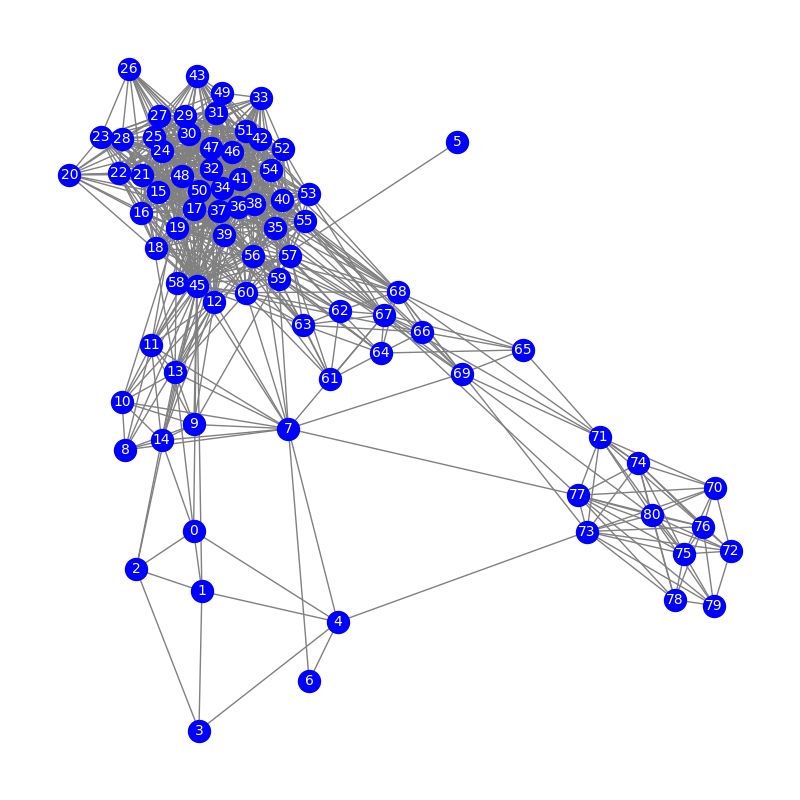
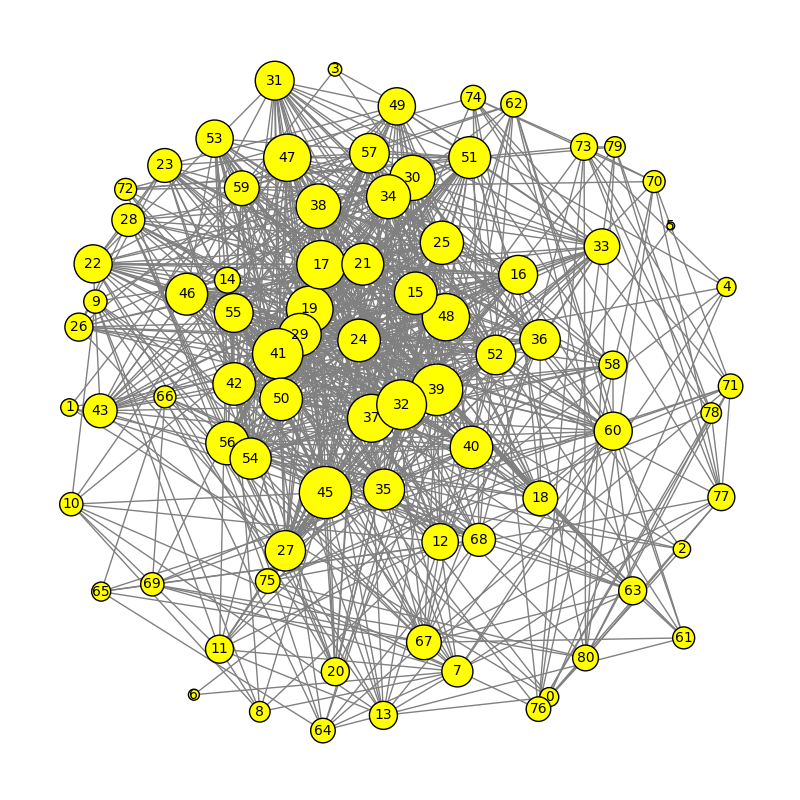
finalizing activity 12 by adding it so that the degree of centrality impacts the node size

diff --git a/Activity-12/main.py b/Activity-12/main.py
@@ -1,5 +1,7 @@
 import networkx as nx
 import matplotlib.pyplot as plt
+import math
+import numpy as np
 
 # filter out the rows of the full genome to only the HIST1 region
 with open("data.txt", "r", encoding="utf-8") as f:
@@ -21,14 +23,14 @@ with open("chr13.txt", "r", encoding="utf-8") as f:
 
     # get the headers and windows from the dataset
     extracted_headers = [row.split("\t")[0:3] for row in all_lines]
-    extracted_windows = [row.split("\t")[2:] for row in all_lines]
+    extracted_windows = [row.split("\t")[3:] for row in all_lines]
 
     # find the columns that need to be deleted (those without any 1's)
     cols_to_delete = []
     for col, _ in enumerate(extracted_windows[0]):
         all_zero = True
         for row, _ in enumerate(extracted_windows):
-            if int(extracted_windows[row][col]) == 1:
+            if int(extracted_windows[row][col].strip()) == 1:
                 all_zero = False
         if all_zero:
             cols_to_delete.append(col)
@@ -40,6 +42,7 @@ with open("chr13.txt", "r", encoding="utf-8") as f:
             if col_index not in cols_to_delete:
                 new_row.append(value)
         extracted_windows[row_index] = new_row
+
 
 num_windows = len(extracted_headers)
 
@@ -91,35 +94,37 @@ normalized_linkage_table = [
 # so that I can get the 75th percentile value
 oneD_Linkage = []
 
-# looping through the 2D array of normalized linkage values
+# another constant-ish value for the number of rows in the linkage table
+# for this data set it should be 81, but for my sake just call the len function this
+normalized_table_row_length = len(normalized_linkage_table)
+
+# looping through the upper triangle of the 2D array of normalized linkage values
 # and appending them to a 1D array for sorting
 # unique values only, and nothing where A = B
-for i in range(len(normalized_linkage_table)):
-    for j in range(i + 1, len(normalized_linkage_table)):
+for i in range(normalized_table_row_length):
+    for j in range(i + 1, normalized_table_row_length):
         oneD_Linkage.append(normalized_linkage_table[i][j])
 
 print("Number of Unique Combinations of Normalized Linkage Table: ", len(oneD_Linkage))
 
 # sort the array so that I can easily find the 75th percentile value
 oneD_Linkage.sort()
-percentile_75 = oneD_Linkage[int(0.75 * len(oneD_Linkage))]
+percentile_75 = oneD_Linkage[math.ceil(0.75 * len(oneD_Linkage))]
 print("75th Percentile Value: ", percentile_75)
 
-# create a graph object
-network_graph = nx.Graph()
 # list that will store tuples of edges
 edges = []
 
 # going and finding the edges in the normalized linkage matrix
 # an edge is defined as any value over the 75th percentile
-for i in range(len(normalized_linkage_table)):
-    for j in range(i + 1, len(normalized_linkage_table)):
+for i in range(normalized_table_row_length):
+    for j in range(i + 1, normalized_table_row_length):
         if normalized_linkage_table[i][j] > percentile_75:
             edges.append((i, j))
 
 # Degree of Centrality
-# 81 zeros for each of the windows
-degreeOfCentrality = [0 for _ in range(len(normalized_linkage_table))]
+# row_length zeros for each of the windows
+degreeOfCentrality = [0 for _ in range(normalized_table_row_length)]
 
 # since there is 2 nodes that connect an edge
 # have to increment both nodes for a single edge
@@ -127,13 +132,16 @@ for edge in edges:
     degreeOfCentrality[edge[0]] += 1
     degreeOfCentrality[edge[1]] += 1
 
-# dividing each total count of edges with the N - 1 number of nodes (80 windows)
-degreeOfCentrality = [(extracted_headers[i], i, (degree / 80)) for i, degree in enumerate(degreeOfCentrality)]
+# dividing each total count of edges with the row_length - 1 number of nodes
+# creating a tuple for each index -> (name, index, degree of centrality)
+degreeOfCentrality = [
+    (extracted_headers[i], i, (degree / (normalized_table_row_length - 1))) for i, degree in enumerate(degreeOfCentrality)
+]
 
 # sorting using the degree as the key
 degreeOfCentrality.sort(key=lambda x: x[2])
 
-# Calculate min, max, and average degree of centrality
+# calculating min, max, and average degree of centrality
 min_degree = min(degreeOfCentrality, key=lambda x: x[2])
 max_degree = max(degreeOfCentrality, key=lambda x: x[2])
 avg_degree = sum(degree[2] for degree in degreeOfCentrality) / len(degreeOfCentrality)
@@ -150,25 +158,36 @@ with open("output.txt", "w", encoding="UTF-8") as f:
 
 
 # Graphing Section
-network_graph.add_edges_from(edges)
+# create a graph object
+network_graph = nx.Graph()
 
-# seed the graphs random positioning so that it is the same each time
-# and can be reproduced by my teammates to check for accuracy
-pos = nx.spring_layout(network_graph, seed=123)  
+network_graph.add_edges_from(edges)
 
 # plotting the network figure, using NetworkX
 plt.figure(figsize=(8, 8))
+
+# calculate node sizes based on the number of connections (degree of centrality)
+node_sizes = {index: centrality * 2500 for _, index, centrality in degreeOfCentrality}
+
+# seed the graphs random positioning so that it is the same each time
+# and can be reproduced by my teammates to check for accuracy
+# increase k for more spacing between nodes
+pos = nx.spring_layout(network_graph, seed=123, k=1.8)  
+
+# Draw the graph
 nx.draw(
-    network_graph, 
-    pos=pos, 
-    with_labels=True, 
-    node_color="blue", 
+    network_graph,
+    pos=pos,
+    with_labels=True,
+    node_color="yellow",
     edge_color="gray",
-    node_size=250, 
-    font_size=10, 
-    font_color="white"
+    node_size=[node_sizes.get(node, 1) for node in network_graph.nodes()],
+    font_size=10,
+    font_color="black",
+    linewidths=1,
+    edgecolors="black"
 )
+
+# Adjust spacing between nodes
 plt.title("Network Graph of the Windows in the Hist1 Region")
 plt.savefig("Network")
-
-
